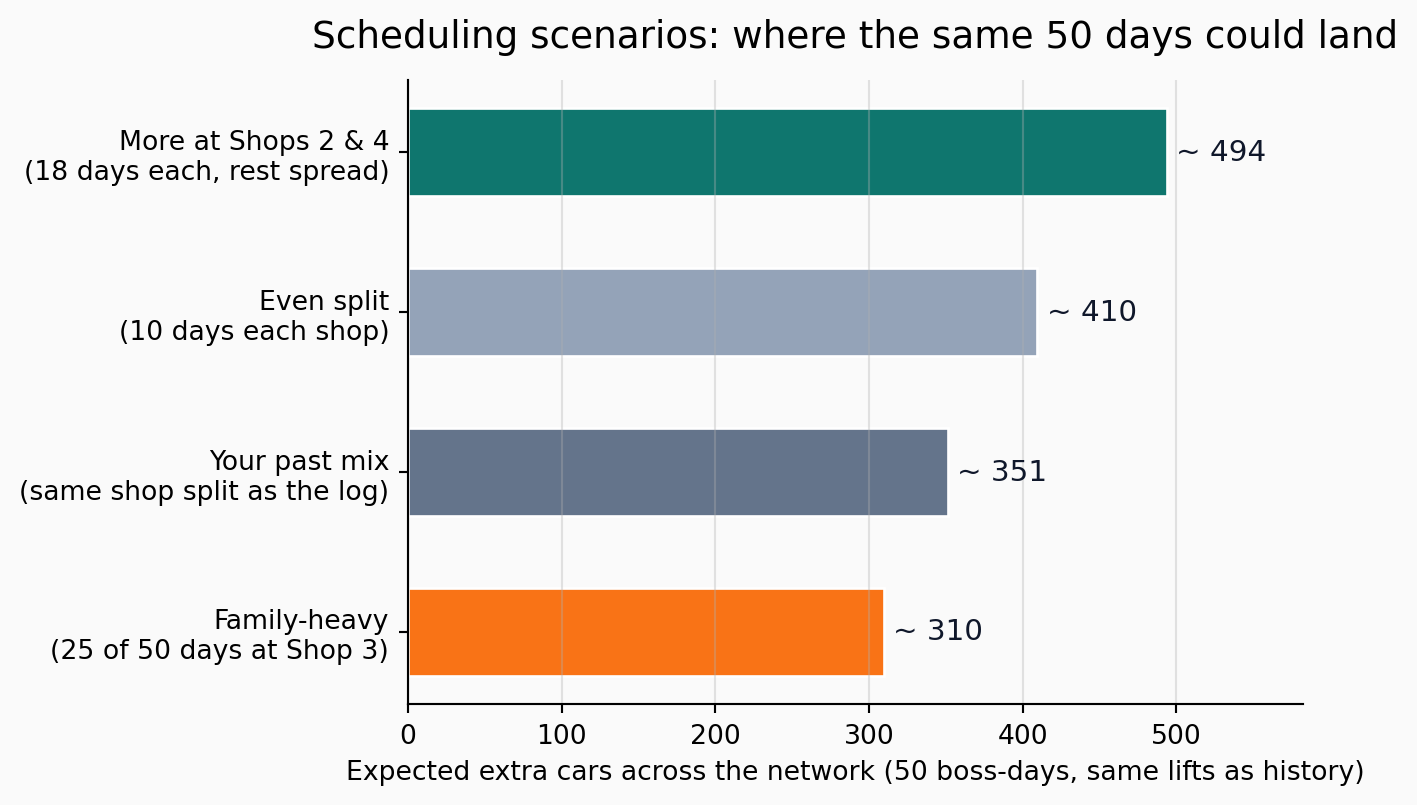
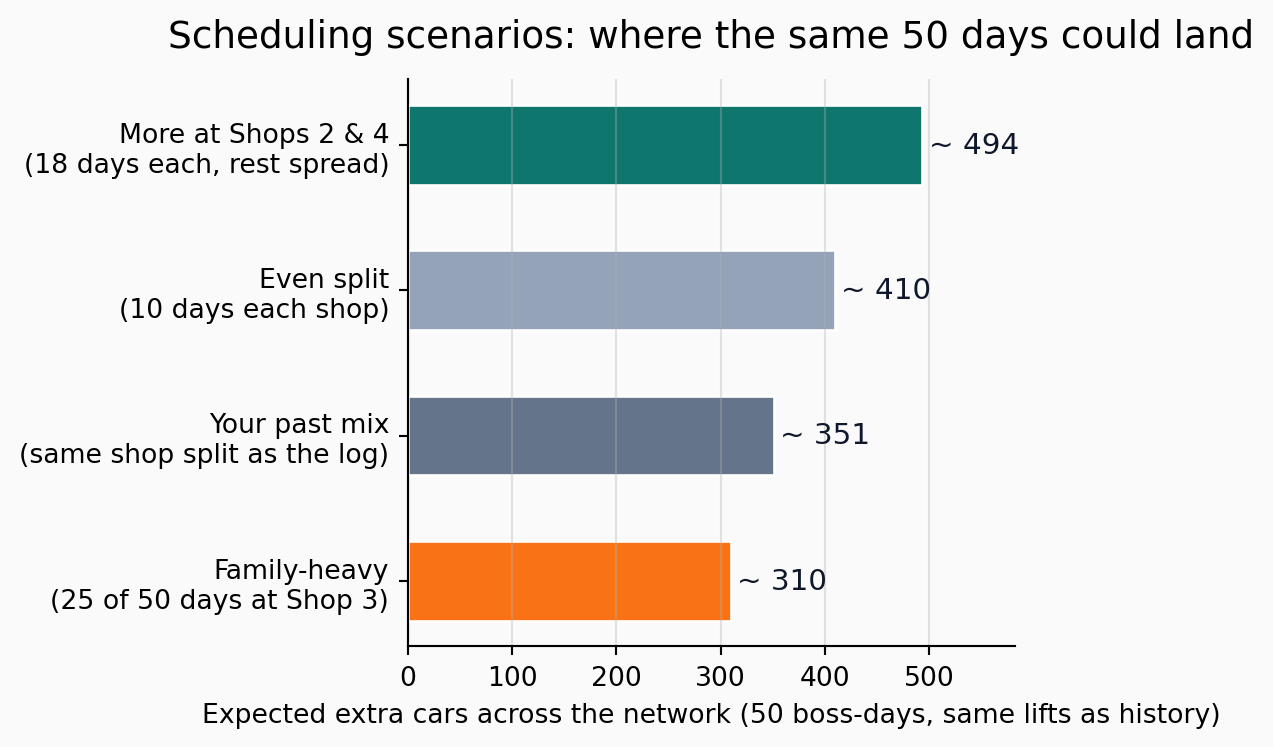
img 4

diff --git a/index.html b/index.html
@@ -92,12 +92,12 @@ ul.task-list li input[type="checkbox"] {
 <li><strong>Shop 1:</strong> about <strong>+7.0</strong> cars/day</li>
 <li><strong>Shop 3:</strong> about <strong>+2.9</strong> cars/day</li>
 </ul>
-<div id="cell-fig-all-250-days" class="cell" data-fig-height="4.6" data-fig-width="7" data-execution_count="1">
+<div id="cell-fig-all-250-days" class="cell" data-fig-height="4" data-fig-width="5.5" data-execution_count="1">
 <div class="cell-output cell-output-display">
 <div id="fig-all-250-days" class="quarto-float quarto-figure quarto-figure-center anchored">
 <figure class="quarto-float quarto-float-fig figure">
 <div aria-describedby="fig-all-250-days-caption-0ceaefa1-69ba-4598-a22c-09a6ac19f8ca">
-<img src="index_files/figure-html/fig-all-250-days-output-1.png" width="662" height="431" class="figure-img">
+<img src="index_files/figure-html/fig-all-250-days-output-1.png" width="555" height="374" class="figure-img">
 </div>
 <figcaption class="quarto-float-caption-bottom quarto-float-caption quarto-float-fig" id="fig-all-250-days-caption-0ceaefa1-69ba-4598-a22c-09a6ac19f8ca">
 Figure&nbsp;1: Each dot is one shop-day from your log. Teal = you were at that shop; gray = you were not. Jitter spreads overlapping dots so you can see them all.
@@ -106,12 +106,12 @@ Figure&nbsp;1: Each dot is one shop-day from your log. Teal = you were at that s
 </div>
 </div>
 </div>
-<div id="cell-fig-lift-by-shop" class="cell" data-fig-height="3.8" data-fig-width="7" data-execution_count="2">
+<div id="cell-fig-lift-by-shop" class="cell" data-fig-height="4" data-fig-width="5.5" data-execution_count="2">
 <div class="cell-output cell-output-display">
 <div id="fig-lift-by-shop" class="quarto-float quarto-figure quarto-figure-center anchored">
 <figure class="quarto-float quarto-float-fig figure">
 <div aria-describedby="fig-lift-by-shop-caption-0ceaefa1-69ba-4598-a22c-09a6ac19f8ca">
-<img src="index_files/figure-html/fig-lift-by-shop-output-1.png" width="662" height="355" class="figure-img">
+<img src="index_files/figure-html/fig-lift-by-shop-output-1.png" width="518" height="374" class="figure-img">
 </div>
 <figcaption class="quarto-float-caption-bottom quarto-float-caption quarto-float-fig" id="fig-lift-by-shop-caption-0ceaefa1-69ba-4598-a22c-09a6ac19f8ca">
 Figure&nbsp;2: How many more cars per day, on average, when you are at that shop versus when you are not. Taller bars mean your time pays off more at that location.
@@ -155,12 +155,12 @@ Figure&nbsp;2: How many more cars per day, on average, when you are at that shop
 <li>Concentrating more days at <strong>Shops 2 and 4</strong> produces the highest projected extra cars</li>
 <li>Putting many days at <strong>Shop 3</strong> lowers projected total output</li>
 </ul>
-<div id="cell-fig-scenario-projection" class="cell" data-fig-height="4.3" data-fig-width="7" data-execution_count="3">
+<div id="cell-fig-scenario-projection" class="cell" data-fig-height="4" data-fig-width="5.5" data-execution_count="3">
 <div class="cell-output cell-output-display">
 <div id="fig-scenario-projection" class="quarto-float quarto-figure quarto-figure-center anchored">
 <figure class="quarto-float quarto-float-fig figure">
 <div aria-describedby="fig-scenario-projection-caption-0ceaefa1-69ba-4598-a22c-09a6ac19f8ca">
-<img src="index_files/figure-html/fig-scenario-projection-output-1.png" width="709" height="403" class="figure-img">
+<img src="index_files/figure-html/fig-scenario-projection-output-1.png" width="637" height="374" class="figure-img">
 </div>
 <figcaption class="quarto-float-caption-bottom quarto-float-caption quarto-float-fig" id="fig-scenario-projection-caption-0ceaefa1-69ba-4598-a22c-09a6ac19f8ca">
 Figure&nbsp;3: Illustrative projection: same 50 boss-days as in your log, split across shops in four ways. Bars show total expected extra cars (sum of days at each shop x that shop’s average lift). Heavier time at Shops 2 and 4 pulls the total up; parking half of those days at Shop 3 drags it down.